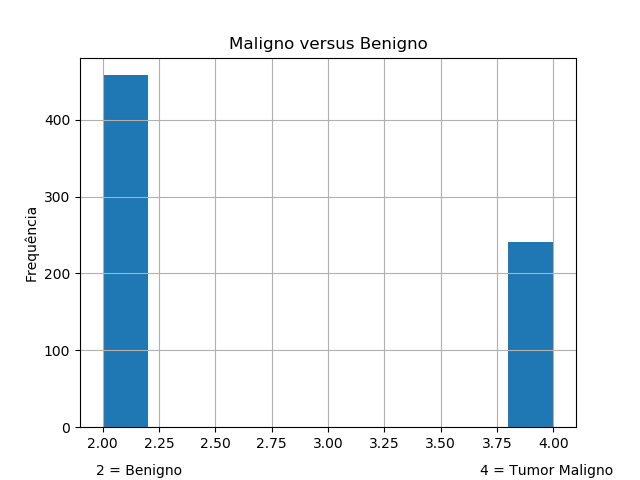
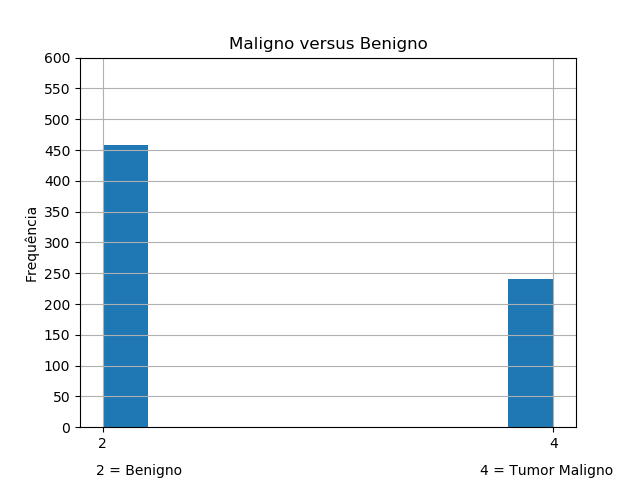
improve visualization

diff --git a/ml-project/vizu-hist-class.py b/ml-project/vizu-hist-class.py
@@ -14,5 +14,9 @@ plt.title('Maligno versus Benigno')
 plt.ylabel('Frequência')
 plt.figtext(.75, .01, "4 = Tumor Maligno")
 plt.figtext(.15, .01, "2 = Benigno")
+x = [2,4]
+plt.xticks(x)
+y = [0,50,100,150,200,250,300,350,400,450,500,550,600]
+plt.yticks(y)
 plt.show()
 
